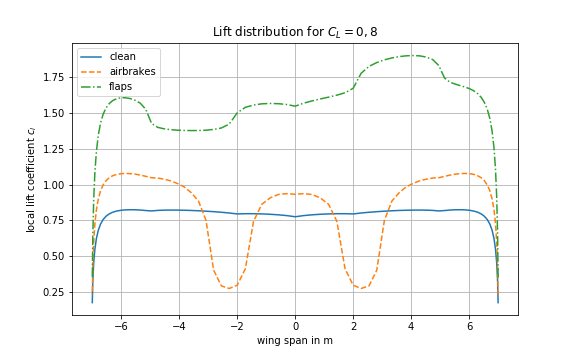
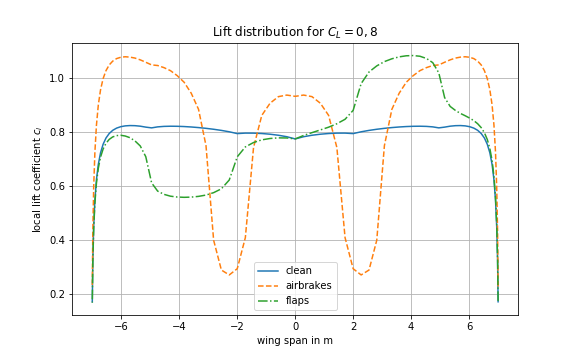
Fix small bug in analysis

Changed region(s): [[0.0312, 0.1222, 0.9062, 0.8556], [0.0625, 0.7028, 0.125, 0.7333]]

diff --git a/wingstructure/analysis.py b/wingstructure/analysis.py
@@ -51,7 +51,7 @@ class LiftAnalysis(object):
             # when flap exists take flap's impact on lift into account
             if flap_name in self.flaps_lift:
                 factor = self._calculate_eta_keff(np.array(flap_deflections[flap_name]))
-                c_l -= self.flaps_lift[flap_name] * factor
+                c_l -= sum(self.flaps_lift[flap_name] * factor)
                 flap_distribution = self.flaps_distribution[flap_name]
                 distribution += flap_distribution * factor[0] + flap_distribution[::-1] * factor[1]
             # otherwise warn user
